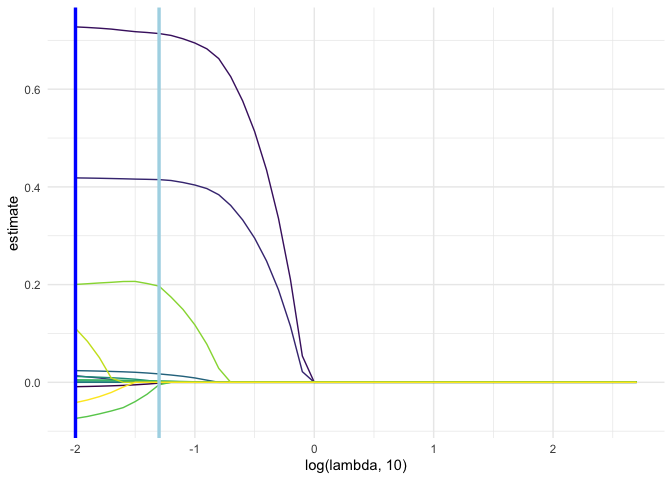
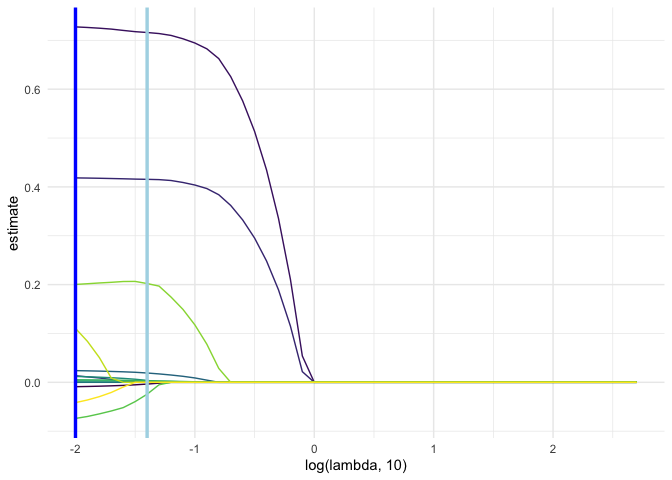
problem 3: added cross validation

Changed region(s): [[0.2188, 0.0, 0.25, 0.9062]]

diff --git a/p8105_hw6_jg5038.md b/p8105_hw6_jg5038.md
@@ -183,10 +183,10 @@ weather_sample_df |>
 
 | estimate    |     ci.lower |     ci.upper |
 |:------------|-------------:|-------------:|
-| beta_1\_hat |    1.0083470 |    1.0270220 |
-| beta_2\_hat |   -0.0080146 |   -0.0035260 |
-| beta_ratio  | -288.5257972 | -126.0494778 |
-| r_sq_hat    |    0.9339928 |    0.9459192 |
+| beta_1\_hat |    1.0071401 |    1.0277218 |
+| beta_2\_hat |   -0.0082603 |   -0.0034429 |
+| beta_ratio  | -295.5294341 | -122.6917785 |
+| r_sq_hat    |    0.9328905 |    0.9462976 |
 
 ## Problem 3
 
@@ -326,4 +326,113 @@ lasso_cv |>
 We can see the cross validated error is basically the same for optimal
 lambda (all predictors) and lambda within 1 standard deviation.
 
-0.3769923 - 0.3640497 = 0.0129426
+0.3731209 - 0.3648316 = 0.0082892
+
+Use lambda within 1 se:
+
+``` r
+lasso_fit_1se = glmnet(x, y, lambda = lambda_1se)
+```
+
+Get predictions
+
+``` r
+bwt_predictions = 
+  birth_df |> 
+  select(bwt_lb) |> 
+  mutate(
+    bwt_lb_pred = predict(lasso_fit_1se, newx = x)[,1],
+    residuals = bwt_lb - bwt_lb_pred
+  )
+```
+
+Plot residuals:
+
+``` r
+bwt_predictions |>
+  ggplot(aes(x = bwt_lb_pred, y = residuals)) +
+  geom_point(alpha = 0.5)
+```
+
+<img src="p8105_hw6_jg5038_files/figure-gfm/unnamed-chunk-15-1.png" width="90%" />
+
+Looks good let’s compare to the other models
+
+``` r
+lm_main_effects = function(df) {
+  lm(bwt_lb ~ blength_in + gaweeks, data = df)
+}
+
+lm_3_way_interaction = function(df) {
+  lm(bwt_lb ~ bhead_in + blength_in + sex + 
+       bhead_in*blength_in + bhead_in*sex + 
+       blength_in*sex + bhead_in*blength_in*sex, 
+     data = birth_df)
+}
+
+glm_lambda_1se = function(df) {
+  y = df |> pull(bwt_lb) 
+  x = model.matrix(bwt_lb ~., df)[,-1]
+  glmnet(x, y, lambda = lambda_1se)
+}
+
+get_rmse = function(model, df) {
+  
+  x = model.matrix(bwt_lb ~., df)[,-1]
+  
+  df = df |> 
+    mutate(bwt_lb_pred = predict(model, newx = x)[,1]) 
+  
+  actual = df |> pull(bwt_lb)
+  predicted =  df |> pull(bwt_lb_pred)
+  rmse = sqrt(mean((actual - predicted)^2))
+  rmse
+}
+```
+
+Perform cross-validation:
+
+``` r
+cv_df = 
+  crossv_mc(birth_df, n = 100) |> 
+  mutate(
+    train = map(train, as_tibble),
+    test = map(test, as_tibble)
+  ) |> 
+  #fit models => use training data
+  mutate(
+    glm = map(train, glm_lambda_1se),
+    lm_me = map(train, lm_main_effects),
+    lm_3wi = map(train, lm_3_way_interaction)
+  ) |> 
+  #get rmse => use testing data
+  mutate(
+    rmse_glm = map2_dbl(glm, test, get_rmse),
+    rmse_linear_simple = map2_dbl(lm_me, test, rmse),
+    rmse_linear_complex = map2_dbl(lm_3wi, test, rmse)
+  )
+```
+
+Look at the RMSE for each model:
+
+``` r
+cv_df |> 
+  select(starts_with("rmse")) |> 
+  pivot_longer(
+    everything(),
+    names_to = "model", 
+    values_to = "rmse",
+    names_prefix = "rmse_") |> 
+  ggplot(aes(x = model, y = rmse)) + 
+  geom_violin()
+```
+
+<img src="p8105_hw6_jg5038_files/figure-gfm/unnamed-chunk-18-1.png" width="90%" />
+
+RMSE is lowest in glm model
+
+| model          | mean_RMSE |
+|:---------------|----------:|
+| glm            |     0.612 |
+| linear_complex |     0.635 |
+| linear_simple  |     0.740 |
